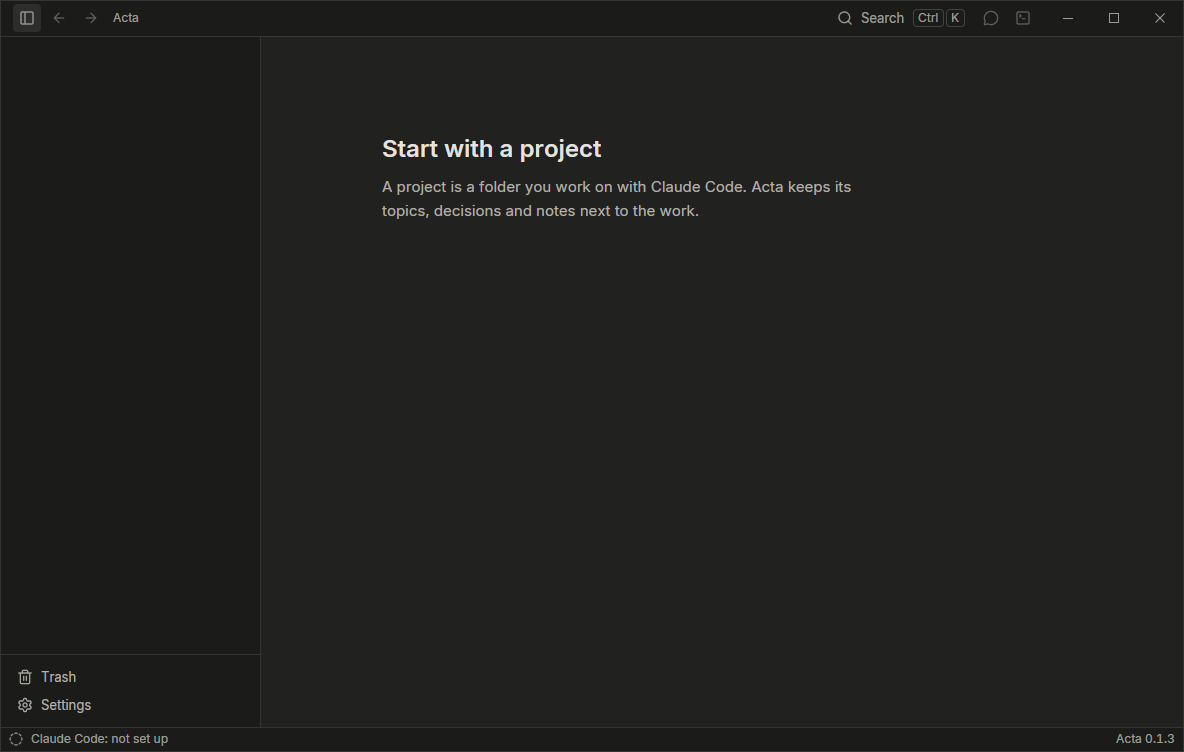
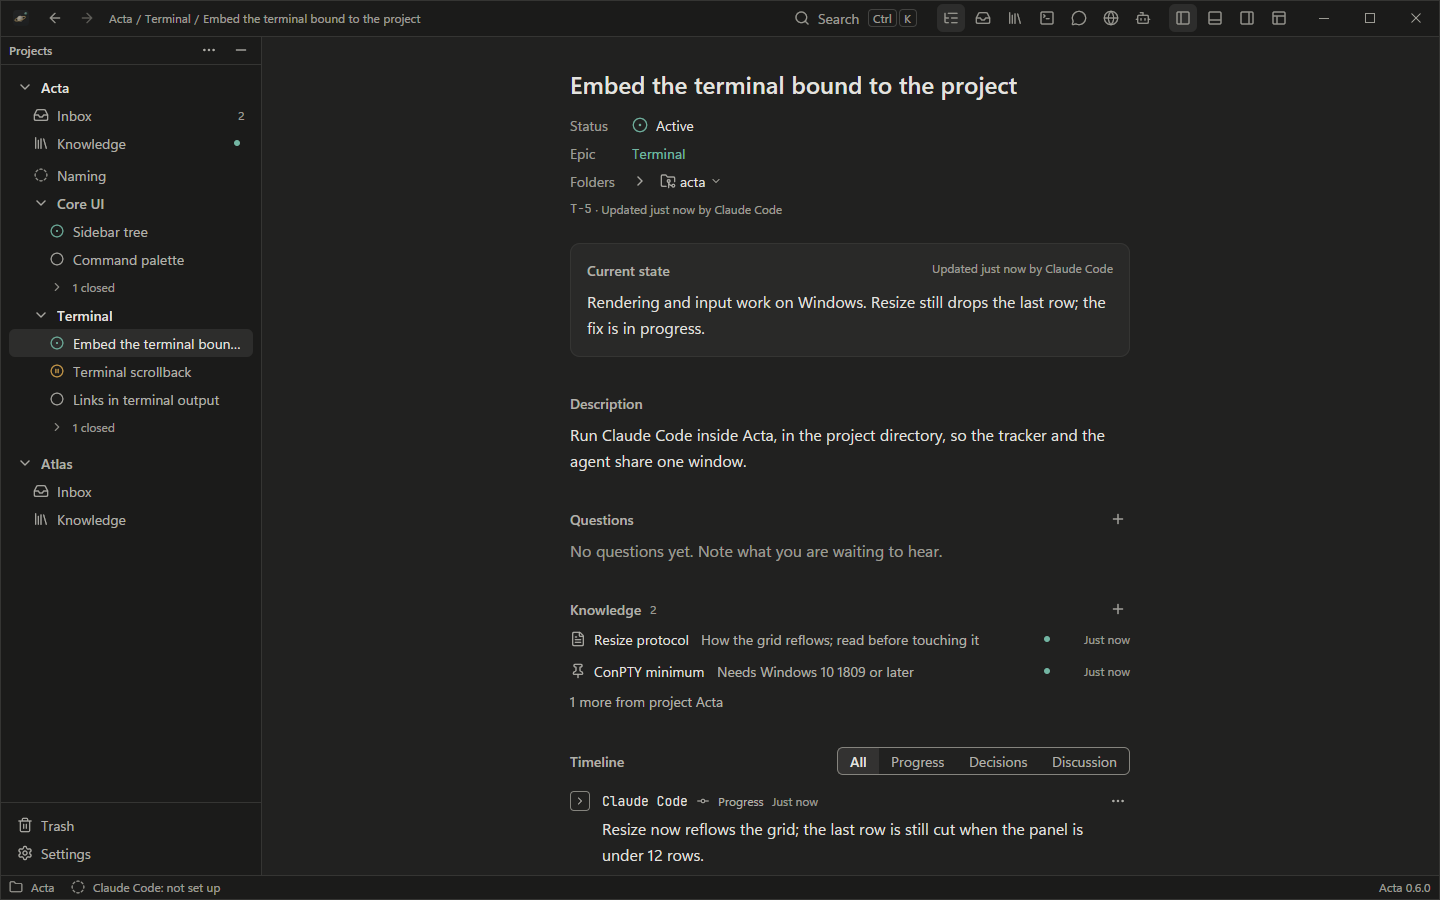
Show a topic page at the top of the README
Replace the v0.1.3 screenshots, unused since an earlier rewrite, with a
topic page in both themes, captured from the sample data.

diff --git a/README.md b/README.md
@@ -17,6 +17,11 @@
   <a href="LICENSE">MIT licence</a>
 </p>
 
+<picture>
+  <source media="(prefers-color-scheme: light)" srcset="docs/images/screenshot-light.png">
+  <img src="docs/images/screenshot-dark.png" alt="Acta showing a topic: the project tree on the left; on the page, its status, the current state written by Claude Code, linked knowledge and the timeline">
+</picture>
+
 ## Why
 
 When you run several projects at once, the work is rarely the hard part. What costs
